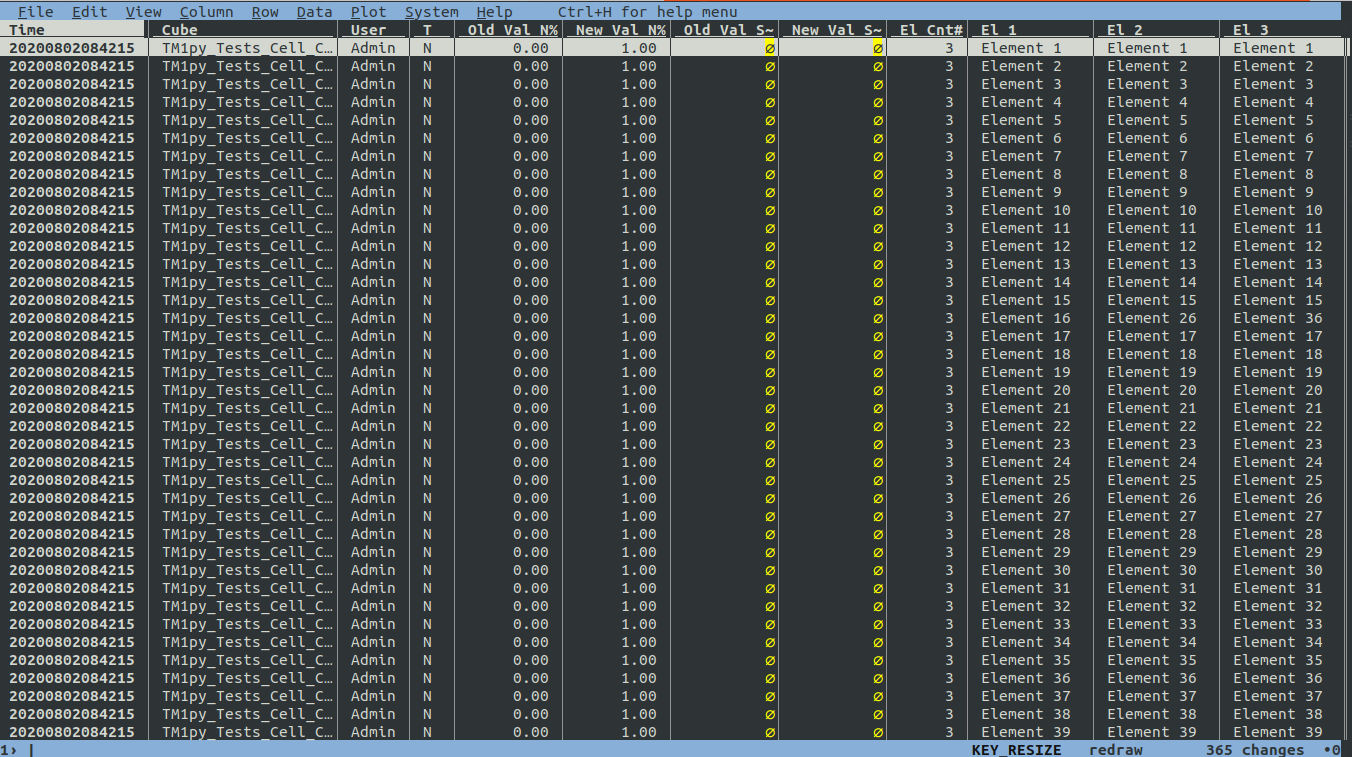
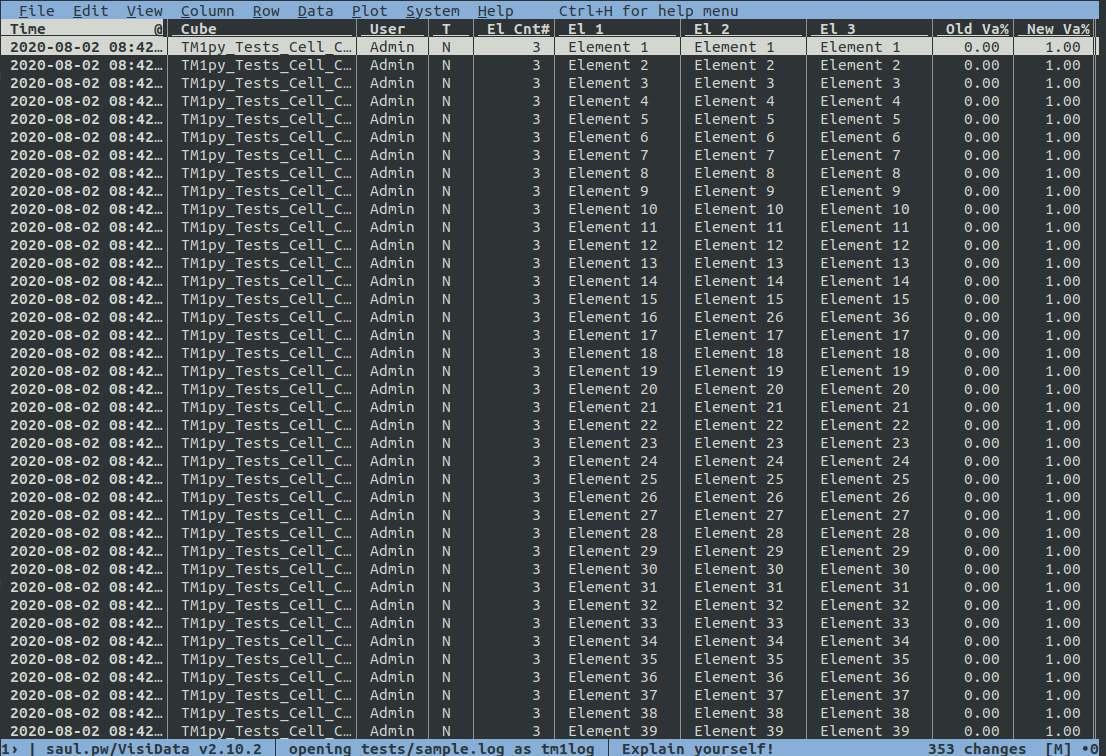
feat: val cols to end

diff --git a/plugins/vd_tm1log.py b/plugins/vd_tm1log.py
@@ -62,15 +62,15 @@ class TM1LogSheet(TableSheet):
         ItemColumn("Cube", 7),
         ItemColumn("User", 3),
         ItemColumn("T", 4),
+        # # we'll always have at least two elements in a cube
+        Column("El Cnt", type=int, getter=lambda col, row: len(row) - 9),
+        ItemColumn("El 1", 8),
+        ItemColumn("El 2", 9),
         # set these to hidden and unhide when a non null value received somehow
         Column("Old Val N", width=0, type=float, getter=lambda col, row: row[5] if row[4] == "N" else None),
         Column("New Val N", width=0, type=float, getter=lambda col, row: row[6] if row[4] == "N" else None),
         Column("Old Val S", width=0, type=str, getter=lambda col, row: row[5] if row[4] == "S" else None),
         Column("New Val S", width=0, type=str, getter=lambda col, row: row[6] if row[4] == "S" else None),
-        # # we'll always have at least two elements in a cube
-        Column("El Cnt", type=int, getter=lambda col, row: len(row) - 9),
-        ItemColumn("El 1", 8),
-        ItemColumn("El 2", 9),
     ]
 
     def iterload(self):
@@ -132,17 +132,19 @@ class TM1LogSheet(TableSheet):
 
                         col = ItemColumn(f"El {el_count}", el_count + 7)
 
-                        self.addColumn(col)
+                        col_index = el_count + 4
+
+                        self.addColumn(col, index=col_index)
 
                     # unhide value columns once type hit
 
                     if not has_n and datatype == "N":
-                        self.columns[4].width = 8
-                        self.columns[5].width = 8
+                        self.columns[-4].width = 8
+                        self.columns[-3].width = 8
 
                     if not has_s and datatype == "S":
-                        self.columns[6].width = 8
-                        self.columns[7].width = 8
+                        self.columns[-2].width = 8
+                        self.columns[-1].width = 8
 
                     # do I need to do anything here to add new columns?
                     yield row
